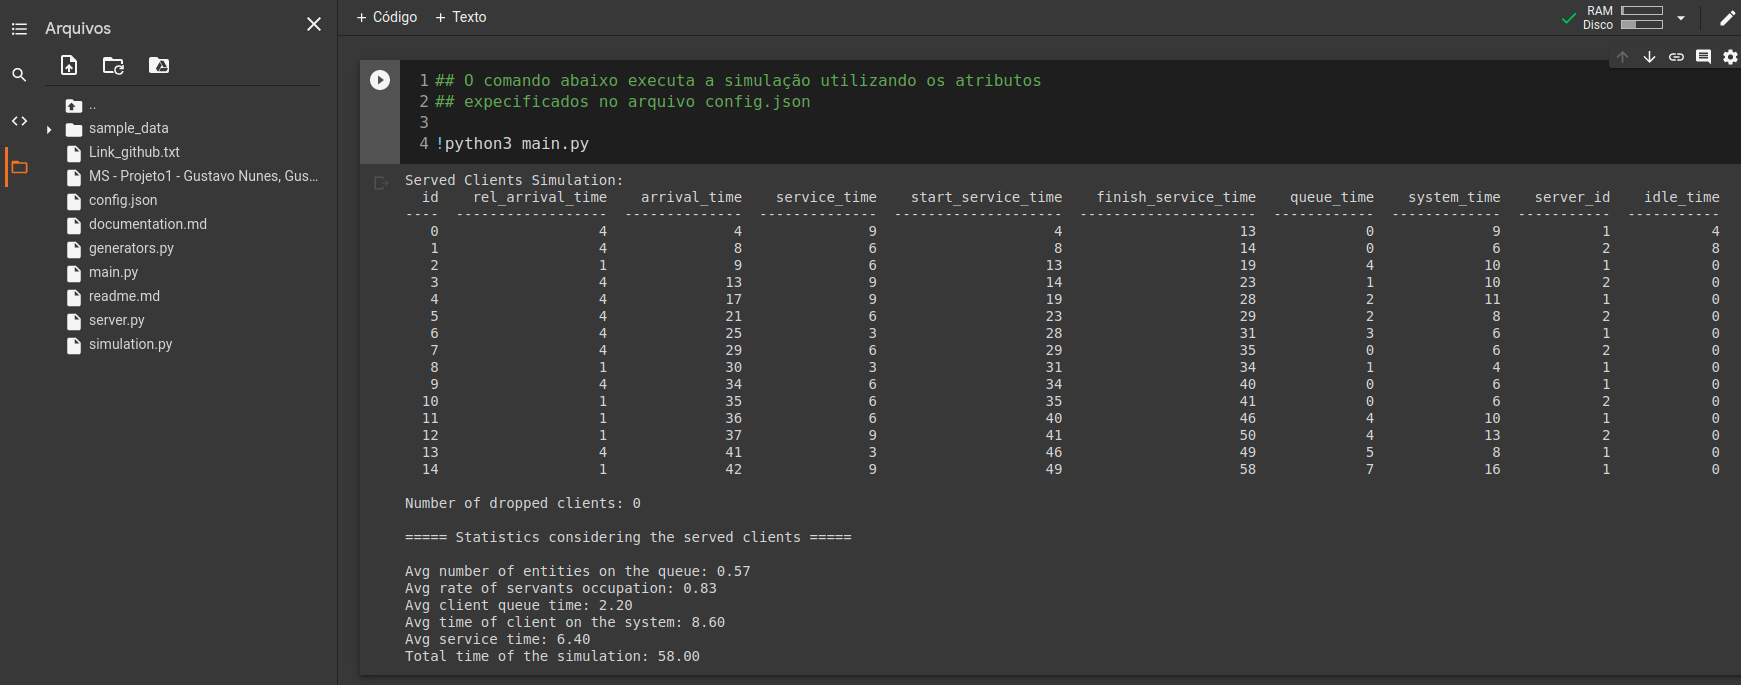
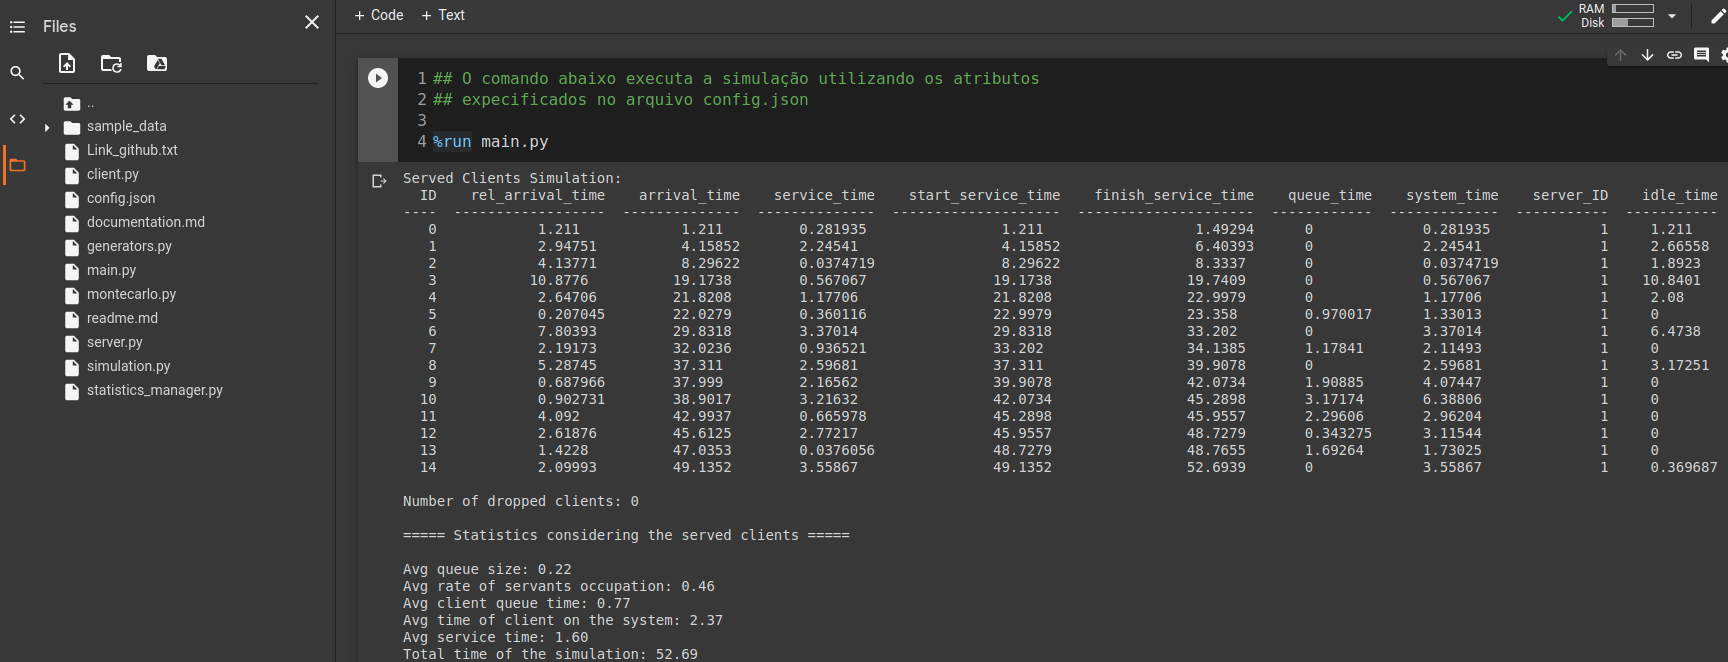
change colab screenshow example

diff --git a/readme.md b/readme.md
@@ -223,6 +223,6 @@ Os campos `tec` e `ts` armazenam os parâmetros necessários dependendo do tipo 
 
 1) Criar um novo `notebook` no Google Colab
 2) Copiar os arquivos do projeto para a pasta `arquivos` na `aba à esquerda`
-3) Executar o comando `!python3 main.py` em alguma célula de execução
+3) Executar o comando `%run main.py` em alguma célula de execução
 
 ![Alt text](images/colab_screenshot.png?raw=true "Exemplo de execução no ambiente Google Colab")
